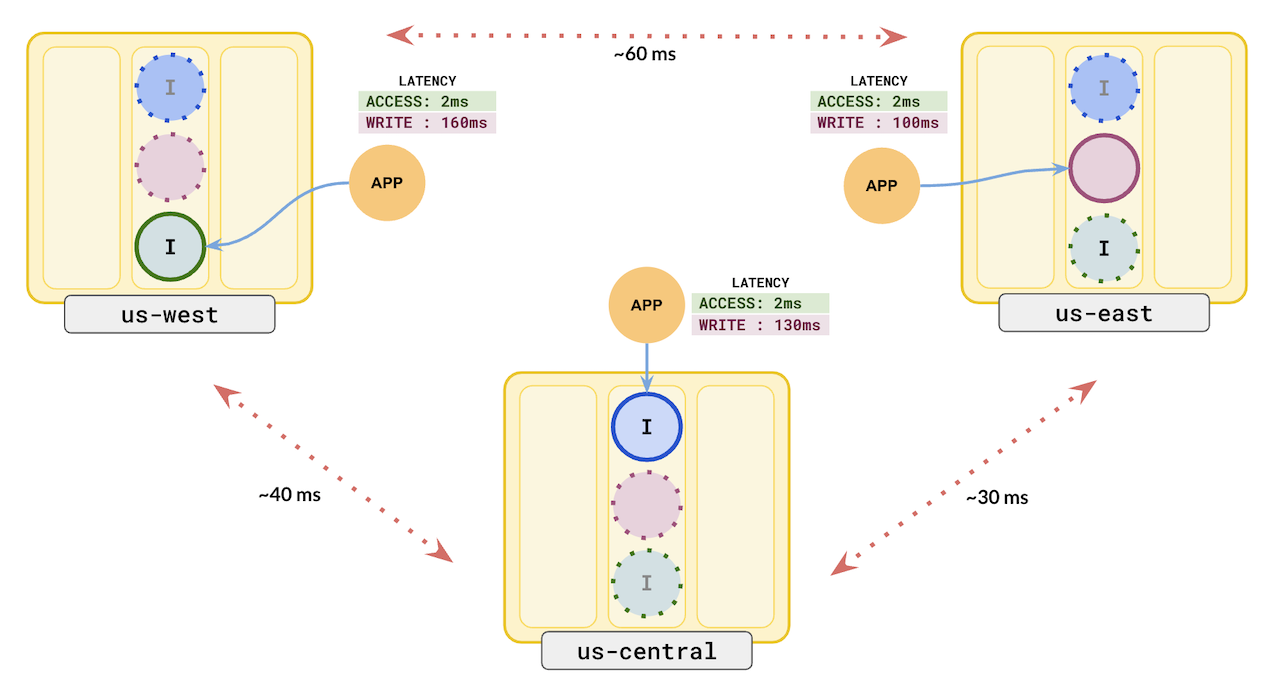
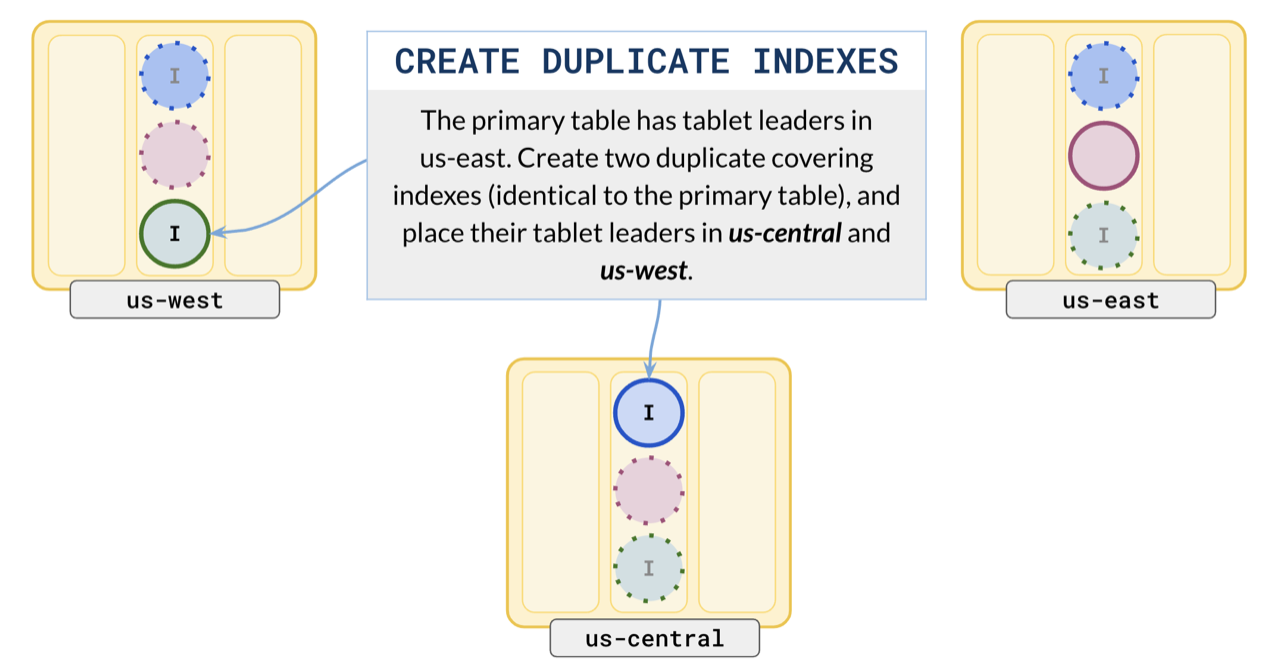
added Active-Active and duplicate indexes

diff --git a/docs/content/preview/develop/build-global-apps/duplicate-indexes.md b/docs/content/preview/develop/build-global-apps/duplicate-indexes.md
@@ -1,0 +1,112 @@
+---
+title: Duplicate Indexes for  global applications
+headerTitle: Duplicate Indexes
+linkTitle: Duplicate Indexes
+description: Enhance the performance of global applications with Duplicate Indexes
+headcontent: Enhance the performance of global applications with Duplicate Indexes
+menu:
+  preview:
+    identifier: global-apps-duplicate-indexes
+    parent: build-global-apps
+    weight: 300
+type: docs
+---
+
+When you have your app running in one region, it is typical to set up a [Global database](../global-database) with preferred leaders set in one region. This is useful when you have your app running in that region.
+
+If you have apps running in multiple regions, they would still have to go the leader in the preferred region for reads and writes. Although writes would always have to go to the leader tablets, the speed of reads could be improved with [Follower Reads](./follower-reads) or [Read replicas](./read-replicas). But in both such setups, the replicas may not be up-to-date with the latest data and would result in stale reads. This may not be acceptable for some applications.
+
+This is where **Duplicate Indexes** would come in handy. Duplicate Indexes will guarantee immediately consistent reads in multiple regions. Let us look into how your applications can benefit from this pattern and understand the costs associated with it.
+
+## Initial setup
+
+Let's consider an RF3 [Global Database](../global-database) that is spread across 3 regions: `us-east`, `us-central`, and `us-west`. Let's say that your app running in `us-east`, so naturally have set up leader preference to `us-east`.
+
+![RF3 Global Database](/images/develop/global-apps/duplicate-indexes-global-database.png)
+
+## Apps in other regions
+
+Let us add an app in `us-central`.
+
+![RF3 Global Database](/images/develop/global-apps/duplicate-indexes-central-app.png)
+
+If you notice the app in `us-central` has a read latency of `30ms` whereas the app in `us-east` has a read latency only `2ms`. This becomes worse, when you add an app in `us-west`.
+
+![RF3 Global Database](/images/develop/global-apps/duplicate-indexes-west-app.png)
+
+The app in `us-west` has a high read latency of `60ms`. Let us see how we can bring this down.
+
+## Duplicate Indexes
+
+All reads go to the leader by default in YugabyteDB. So, even though the replicas are available in other regions, applications will have to incur cross-region latency if the leaders are in a different region than the app. 
+
+Let us create multiple covering indexes with the schema the same as the table and attach them to different tablespaces with leader preference set to each region. To set this up, follow these steps.
+
+1. Create multiple tablespaces (one for every region you want your index leader to be located in) and set leader preference to that region:
+{{<note title="Note" >}}
+Even though the leader preference is set to a region, you should place the replicas in other regions for outage scenarios, depending on your application setup.
+{{</note>}}
+
+      ```plpgsql
+      --  tablespace for west data
+      CREATE TABLESPACE west WITH (
+        replica_placement= '{ 
+            "num_replicas" : 3,
+            "placement_blocks" : [ 
+                {"cloud":"aws","region":"us-west","zone":"us-west-1a","leader_preference": "1"}
+                {"cloud":"aws","region":"us-east","zone":"us-east-1a"}
+                {"cloud":"aws","region":"us-central","zone":"us-central-1a"}
+        ]}');
+
+      --  tablespace for central data
+      CREATE TABLESPACE central WITH (
+        replica_placement= '{ 
+            "num_replicas" : 3,
+            "placement_blocks" : [ 
+                {"cloud":"aws","region":"us-west","zone":"us-west-1a"}
+                {"cloud":"aws","region":"us-east","zone":"us-east-1a",}
+                {"cloud":"aws","region":"us-central","zone":"us-central-1a","leader_preference": "1"}
+        ]}');
+
+      --  tablespace for east data
+      CREATE TABLESPACE east WITH (
+        replica_placement= '{ 
+            "num_replicas" : 3,
+            "placement_blocks" : [ 
+                {"cloud":"aws","region":"us-west","zone":"us-west-1a"}
+                {"cloud":"aws","region":"us-east","zone":"us-east-1a","leader_preference": "1"
+                {"cloud":"aws","region":"us-central","zone":"us-central-1a"}
+        ]}');
+      ```
+
+1. Create multiple covering indexes and attach them to region-level tablespaces
+
+      ```plpgsql
+      CREATE INDEX idx_west    ON users (name) INCLUDE (id, city) TABLESPACE west;
+      CREATE INDEX idx_east    ON users (name) INCLUDE (id, city) TABLESPACE east;
+      CREATE INDEX idx_central ON users (name) INCLUDE (id, city) TABLESPACE central;
+      ```
+
+This will create three clones of the covering index, with leaders in different regions and at the same time replicated in the other regions. You will get a setup similar to this:
+
+![Duplicate indexes](/images/develop/global-apps/duplicate-indexes-create.png)
+
+
+## Reduced Read Latency
+
+As you have added all of the columns needed for your queries as part of the covering index, the query executor will not have to go to the tablet leader (in a different region) to fetch the data. The query planner will use the index whose leaders are local to the region when querying.
+{{<note title="Note">}}
+The query planner optimizations related to picking the right index by taking into consideration the leader preference of the tablespace in which the index lives are available from 2.17.3+ releases.
+{{</note>}}
+
+![Duplicate indexes](/images/develop/global-apps/duplicate-indexes-read-latencies.png)
+
+You can easily notice that all the apps now read locally with a reduced read latency of `2ms`. When you set up your cluster using duplicate indexes, it will have the effect of having consistent leaders for the table in each region.
+
+## Increased Write Latency
+
+Let's take a look at the write latencies.
+
+![Duplicate indexes](/images/develop/global-apps/duplicate-indexes-write-latencies.png)
+
+The write latencies have increased because each write has to update the tablet leader, its replicas and leaders of 3 indexes and their replicas. Effectively you are sacrificing the write latency to get highly reduced read latency.

diff --git a/docs/content/preview/develop/build-global-apps/active-active-single-master.md b/docs/content/preview/develop/build-global-apps/active-active-single-master.md
@@ -1,0 +1,58 @@
+---
+title: Active-Active Single-Master design pattern for  global applications
+headerTitle: Active-Active Single-Master
+linkTitle: Active-Active Single-Master
+description: An active and a stand by cluster for global applications
+headcontent: An active and a stand by cluster for global applications
+menu:
+  preview:
+    identifier: global-apps-active-active-single-master
+    parent: build-global-apps
+    weight: 400
+type: docs
+---
+
+For a highly available system, it is typical to opt for a [Global database](../global-database) that spans multiple regions. The raft-based **synchronous replication** guarantees that at least `1 + RF/2` (`RF` = replication factor) nodes are consistent and up-to-date with the latest data. This means a write can complete only after it has been successfully replicated to other nodes. This increases latency.
+
+For apps that run in a single region but need a safety net, you can adopt the **Active-Active Single-Master** design pattern with which you can setup 2 clusters in different regions where one cluster actively takes responsibility for all reads and writes and at the same time populates another cluster **asynchronously**. The second cluster can be promoted to primary in the case of a disaster. Let us understand this in more detail.
+
+## Initial setup
+
+Let's say you have your `RF3` cluster and apps deployed in `us-west`.
+
+![RF3 cluster in one region](/images/develop/global-apps/aa-single-master-1region.png)
+
+This will ensure that the reads and writes are within the same region. Notice the low latency of reads and writes. As the whole cluster is in one region, in case of a region failure, you would lose all the data. Let's see how we can mitigate this.
+
+## Standby cluster
+
+You can set up a secondary cluster in a different region say `us-east` using [xCluster](../../../architecture/docdb-replication/async-replication).
+
+![Active-Active Single Master](/images/develop/global-apps/aa-single-master-setup.png)
+
+The `us-east` cluster(_sink_) is independent of the primary cluster in `us-west` and the data will be populated by **asynchronous replication** from the primary cluster(_source_). This means that the read and write latencies of the primary cluster will not be affected but at the same time, the data in the second cluster will not be immediately consistent with the primary cluster. The _sink_ cluster acts as a **Standby cluster** and can take over as primary in case of a disaster. This can also be used for [blue/green](https://en.wikipedia.org/wiki/Blue-green_deployment) deploy testing.
+
+## Local Reads
+
+As the second cluster has the same schema and the data(with a little lag), it can serve stale reads for local applications.
+
+![Active-Active Single Master](/images/develop/global-apps/aa-single-master-reads.png)
+
+But the writes still have to go to the primary cluster in `us-west`.
+
+## Failover
+
+When the primary cluster in `us-west` fails, the secondary cluster in `us-east` can be promoted to become the primary and can start serving both reads and writes.
+
+![Active-Active Single Master - Failover](/images/develop/global-apps/aa-single-master-failover.png)
+
+## Caveats
+
+The replication happens at the DocDB layer bypassing the query layer, some standard functionality will not work.
+
+- Avoid `UNIQUE` indexes and constraints, as there is no way to check uniqueness.
+- Avoid `TRIGGERS`, as the triggers won't be fired as the query layer is bypassed.
+- Avoid `SERIAL` columns as both the clusters would generate the same sequence (use UUID instead).
+- Schema changes are not automatically transmitted but have to be applied manually (for now)
+
+Another thing to note in xCluster is that transaction updates are NOT committed atomically from the source to the sink and hence the second cluster could be transactionally inconsistent.

diff --git a/docs/content/preview/develop/build-global-apps/active-active-multi-master.md b/docs/content/preview/develop/build-global-apps/active-active-multi-master.md
@@ -1,0 +1,44 @@
+---
+title: Active-Active Multi-Master design pattern for  global applications
+headerTitle: Active-Active Multi-Master
+linkTitle: Active-Active Multi-Master
+description: Multi-Master dual cluster for global applications
+headcontent: Multi-Master dual cluster for global applications
+menu:
+  preview:
+    identifier: global-apps-active-active-multi-master
+    parent: build-global-apps
+    weight: 500
+type: docs
+---
+
+For a highly available system, it is typical to opt for a [Global database](../global-database) that spans multiple regions. The raft-based **synchronous replication** guarantees that at least `1 + RF/2` (`RF` = replication factor) nodes are consistent and up-to-date with the latest data. This means a write can complete only after it has been successfully replicated to other nodes. This increases latency when the cluster spans multiple regions.
+
+For apps that have to be run in multiple regions, you can adopt the **Active-Active Multi-Master** design pattern with which you can setup 2 clusters in different regions where both clusters actively take responsibility for the local reads and writes and populate one another **asynchronously**. Let us understand this in more detail.
+
+## Initial setup
+
+Let's say you have your `RF3` cluster and apps deployed in `us-west`.
+
+![RF3 cluster in one region](/images/develop/global-apps/aa-single-master-1region.png)
+
+This will ensure that the reads and writes are within the same region. Notice the low latency of reads and writes. As the whole cluster is in one region, in case of a region failure, you would lose all the data. Let's see how we can mitigate this.
+
+## Multi-Master
+
+You can set up another cluster in a different region say `us-east` using [xCluster](../../../explore/multi-region-deployments/asynchronous-replication-ysql/#configure-bidirectional-replication).
+
+![Active-Active Multi Master](/images/develop/global-apps/aa-multi-master-setup.png)
+
+The `us-east` cluster is independent of the primary cluster in `us-west` and the data will be populated by **asynchronous replication** between each other. This means that the read and write latencies of each cluster will not be affected by the other but at the same time, the data in each cluster will not be immediately consistent with each other. You can use this pattern to reduce latencies for local users by writing and reading from the closest cluster.
+
+## Caveats
+
+The replication happens at the DocDB layer bypassing the query layer, some standard functionality will not work.
+
+- Avoid `UNIQUE` indexes and constraints, as there is no way to check uniqueness.
+- Avoid `TRIGGERS`, as the triggers won't be fired as the query layer is bypassed.
+- Avoid `SERIAL` columns as both the clusters would generate the same sequence (use UUID instead).
+- Schema changes are not automatically transmitted but have to be applied manually (for now)
+
+Another thing to note in xCluster is that transaction updates are NOT committed atomically from the source to the sink and hence the second cluster could be transactionally inconsistent.

diff --git a/docs/content/preview/develop/build-global-apps/design-patterns-ha.md b/docs/content/preview/develop/build-global-apps/design-patterns-ha.md
@@ -9,7 +9,7 @@ menu:
   preview:
     identifier: global-apps-design-patterns-ha
     parent: build-global-apps
-    weight: 202
+    weight: 2020
 rightNav:
   hideH3: true
   hideH4: true

diff --git a/docs/content/preview/develop/build-global-apps/design-patterns.md b/docs/content/preview/develop/build-global-apps/design-patterns.md
@@ -9,7 +9,7 @@ menu:
   preview:
     identifier1: global-apps-design-patterns
     parent1: build-global-apps
-    weight: 202
+    weight: 2020
 rightNav:
   hideH3: true
   hideH4: true

diff --git a/docs/content/preview/develop/build-global-apps/design-patterns-compliance.md b/docs/content/preview/develop/build-global-apps/design-patterns-compliance.md
@@ -9,7 +9,7 @@ menu:
   preview:
     identifier: global-apps-design-patterns-compliance
     parent: build-global-apps
-    weight: 201
+    weight: 2010
 type: docs
 ---
 

diff --git a/docs/content/preview/develop/build-global-apps/global-apps-smart-driver.md b/docs/content/preview/develop/build-global-apps/global-apps-smart-driver.md
@@ -9,7 +9,7 @@ menu:
   preview:
     identifier: global-apps-smartdriver
     parent: build-global-apps
-    weight: 204
+    weight: 2040
 type: docs
 ---
 

diff --git a/docs/content/preview/develop/build-global-apps/global-performance.md b/docs/content/preview/develop/build-global-apps/global-performance.md
@@ -9,7 +9,7 @@ menu:
   preview:
     identifier: global-apps-performance
     parent: build-global-apps
-    weight: 203
+    weight: 2030
 type: docs
 ---
 
